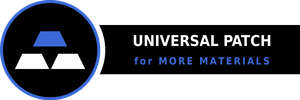
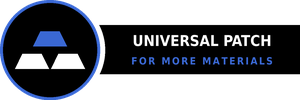
assets: capitalize badge subtext (FOR MORE MATERIALS)
Claude-Session: https://claude.ai/code/session_01P8KGqMWXs1NiRZudGV5mNa

Changed region(s): [[0.42, 0.57, 0.93, 0.66]]

diff --git a/Media/badge_gen.py b/Media/badge_gen.py
@@ -68,7 +68,7 @@ def render_badge():
     t1 = "UNIVERSAL PATCH"
     w1 = d.textlength(t1, font=f1)
     d.text((CX - w1 / 2, 32 * S), t1, font=f1, fill=WHITE)
-    t2 = "for MORE MATERIALS"
+    t2 = "FOR MORE MATERIALS"
     K = 1.6 * S
     w2 = sum(d.textlength(c, font=f2) + K for c in t2) - K
     x = CX - w2 / 2
